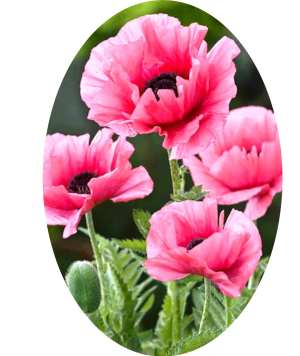
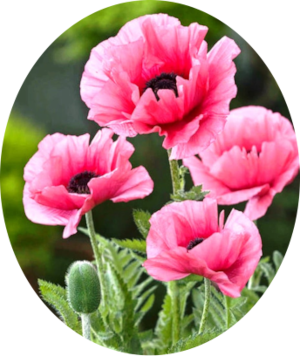
plantas

diff --git a/src/sistema/planta/Menu1.java b/src/sistema/planta/Menu1.java
@@ -154,11 +154,10 @@ public class Menu1 extends javax.swing.JFrame {
         jLabel58 = new javax.swing.JLabel();
         jLabel61 = new javax.swing.JLabel();
         Amapolas_Rosas = new javax.swing.JPanel();
-        butt_AmapolasRosas = new javax.swing.JButton();
+        jLabel81 = new javax.swing.JLabel();
         Ixoras = new javax.swing.JPanel();
-        butt_Ixora = new javax.swing.JButton();
+        jLabel82 = new javax.swing.JLabel();
         Tulipanes = new javax.swing.JPanel();
-        butt_Tulipanes = new javax.swing.JButton();
         Rosas_Desierto = new javax.swing.JPanel();
         butt_rosaDelDesierto = new javax.swing.JButton();
         Magnolio = new javax.swing.JPanel();
@@ -1062,7 +1061,7 @@ public class Menu1 extends javax.swing.JFrame {
                 .addContainerGap())
             .addGroup(MargaritasLayout.createParallelGroup(javax.swing.GroupLayout.Alignment.LEADING)
                 .addGroup(javax.swing.GroupLayout.Alignment.TRAILING, MargaritasLayout.createSequentialGroup()
-                    .addContainerGap(505, Short.MAX_VALUE)
+                    .addContainerGap(499, Short.MAX_VALUE)
                     .addComponent(jLabel61)
                     .addGap(70, 70, 70)))
         );
@@ -1071,48 +1070,46 @@ public class Menu1 extends javax.swing.JFrame {
 
         Amapolas_Rosas.setBackground(new java.awt.Color(51, 0, 51));
 
-        butt_AmapolasRosas.setIcon(new javax.swing.ImageIcon(getClass().getResource("/ImagenesPlanta/Amapolas rosas.png"))); // NOI18N
-        butt_AmapolasRosas.setText("jButton1");
+        jLabel81.setIcon(new javax.swing.ImageIcon(getClass().getResource("/ImagenesPlanta/amprosa.png"))); // NOI18N
+        jLabel81.setText("jLabel81");
 
         javax.swing.GroupLayout Amapolas_RosasLayout = new javax.swing.GroupLayout(Amapolas_Rosas);
         Amapolas_Rosas.setLayout(Amapolas_RosasLayout);
         Amapolas_RosasLayout.setHorizontalGroup(
             Amapolas_RosasLayout.createParallelGroup(javax.swing.GroupLayout.Alignment.LEADING)
             .addGroup(Amapolas_RosasLayout.createSequentialGroup()
-                .addGap(25, 25, 25)
-                .addComponent(butt_AmapolasRosas, javax.swing.GroupLayout.PREFERRED_SIZE, 220, javax.swing.GroupLayout.PREFERRED_SIZE)
-                .addContainerGap(javax.swing.GroupLayout.DEFAULT_SIZE, Short.MAX_VALUE))
+                .addContainerGap()
+                .addComponent(jLabel81, javax.swing.GroupLayout.PREFERRED_SIZE, 309, javax.swing.GroupLayout.PREFERRED_SIZE)
+                .addContainerGap(736, Short.MAX_VALUE))
         );
         Amapolas_RosasLayout.setVerticalGroup(
             Amapolas_RosasLayout.createParallelGroup(javax.swing.GroupLayout.Alignment.LEADING)
             .addGroup(Amapolas_RosasLayout.createSequentialGroup()
-                .addGap(26, 26, 26)
-                .addComponent(butt_AmapolasRosas, javax.swing.GroupLayout.PREFERRED_SIZE, 200, javax.swing.GroupLayout.PREFERRED_SIZE)
-                .addContainerGap(javax.swing.GroupLayout.DEFAULT_SIZE, Short.MAX_VALUE))
+                .addContainerGap()
+                .addComponent(jLabel81)
+                .addContainerGap(325, Short.MAX_VALUE))
         );
 
         jTabbedPane2.addTab("Amapolas Rosas", Amapolas_Rosas);
 
         Ixoras.setBackground(new java.awt.Color(153, 0, 0));
 
-        butt_Ixora.setIcon(new javax.swing.ImageIcon(getClass().getResource("/ImagenesPlanta/planta_ixora.jpg"))); // NOI18N
-        butt_Ixora.setText("jButton1");
+        jLabel82.setIcon(new javax.swing.ImageIcon(getClass().getResource("/ImagenesPlanta/ixo.png"))); // NOI18N
+        jLabel82.setText("jLabel81");
 
         javax.swing.GroupLayout IxorasLayout = new javax.swing.GroupLayout(Ixoras);
         Ixoras.setLayout(IxorasLayout);
         IxorasLayout.setHorizontalGroup(
             IxorasLayout.createParallelGroup(javax.swing.GroupLayout.Alignment.LEADING)
             .addGroup(IxorasLayout.createSequentialGroup()
-                .addGap(23, 23, 23)
-                .addComponent(butt_Ixora, javax.swing.GroupLayout.PREFERRED_SIZE, 220, javax.swing.GroupLayout.PREFERRED_SIZE)
-                .addContainerGap(javax.swing.GroupLayout.DEFAULT_SIZE, Short.MAX_VALUE))
+                .addComponent(jLabel82, javax.swing.GroupLayout.PREFERRED_SIZE, 339, javax.swing.GroupLayout.PREFERRED_SIZE)
+                .addGap(0, 716, Short.MAX_VALUE))
         );
         IxorasLayout.setVerticalGroup(
             IxorasLayout.createParallelGroup(javax.swing.GroupLayout.Alignment.LEADING)
             .addGroup(IxorasLayout.createSequentialGroup()
-                .addGap(26, 26, 26)
-                .addComponent(butt_Ixora, javax.swing.GroupLayout.PREFERRED_SIZE, 200, javax.swing.GroupLayout.PREFERRED_SIZE)
-                .addContainerGap(javax.swing.GroupLayout.DEFAULT_SIZE, Short.MAX_VALUE))
+                .addComponent(jLabel82)
+                .addGap(0, 332, Short.MAX_VALUE))
         );
 
         jTabbedPane2.addTab("Ixoras", Ixoras);
@@ -1120,24 +1117,15 @@ public class Menu1 extends javax.swing.JFrame {
         Tulipanes.setBackground(new java.awt.Color(204, 0, 51));
         Tulipanes.setForeground(new java.awt.Color(204, 0, 51));
 
-        butt_Tulipanes.setIcon(new javax.swing.ImageIcon(getClass().getResource("/ImagenesPlanta/Tulipanes.jpg"))); // NOI18N
-        butt_Tulipanes.setText("jButton1");
-
         javax.swing.GroupLayout TulipanesLayout = new javax.swing.GroupLayout(Tulipanes);
         Tulipanes.setLayout(TulipanesLayout);
         TulipanesLayout.setHorizontalGroup(
             TulipanesLayout.createParallelGroup(javax.swing.GroupLayout.Alignment.LEADING)
-            .addGroup(TulipanesLayout.createSequentialGroup()
-                .addGap(20, 20, 20)
-                .addComponent(butt_Tulipanes, javax.swing.GroupLayout.PREFERRED_SIZE, 220, javax.swing.GroupLayout.PREFERRED_SIZE)
-                .addContainerGap(javax.swing.GroupLayout.DEFAULT_SIZE, Short.MAX_VALUE))
+            .addGap(0, 1055, Short.MAX_VALUE)
         );
         TulipanesLayout.setVerticalGroup(
             TulipanesLayout.createParallelGroup(javax.swing.GroupLayout.Alignment.LEADING)
-            .addGroup(TulipanesLayout.createSequentialGroup()
-                .addGap(23, 23, 23)
-                .addComponent(butt_Tulipanes, javax.swing.GroupLayout.PREFERRED_SIZE, 200, javax.swing.GroupLayout.PREFERRED_SIZE)
-                .addContainerGap(javax.swing.GroupLayout.DEFAULT_SIZE, Short.MAX_VALUE))
+            .addGap(0, 692, Short.MAX_VALUE)
         );
 
         jTabbedPane2.addTab("Tulipanes", Tulipanes);
@@ -2400,9 +2388,6 @@ public class Menu1 extends javax.swing.JFrame {
     private javax.swing.JPanel Templado;
     private javax.swing.JPanel Tulipanes;
     private javax.swing.JPanel antartico;
-    private javax.swing.JButton butt_AmapolasRosas;
-    private javax.swing.JButton butt_Ixora;
-    private javax.swing.JButton butt_Tulipanes;
     private javax.swing.JButton butt_rosaDelDesierto;
     private javax.swing.JPanel continental;
     private javax.swing.JButton introDiseños;
@@ -2499,6 +2484,8 @@ public class Menu1 extends javax.swing.JFrame {
     private javax.swing.JLabel jLabel79;
     private javax.swing.JLabel jLabel8;
     private javax.swing.JLabel jLabel80;
+    private javax.swing.JLabel jLabel81;
+    private javax.swing.JLabel jLabel82;
     private javax.swing.JLabel jLabel9;
     private javax.swing.JScrollPane jScrollPane10;
     private javax.swing.JScrollPane jScrollPane11;
